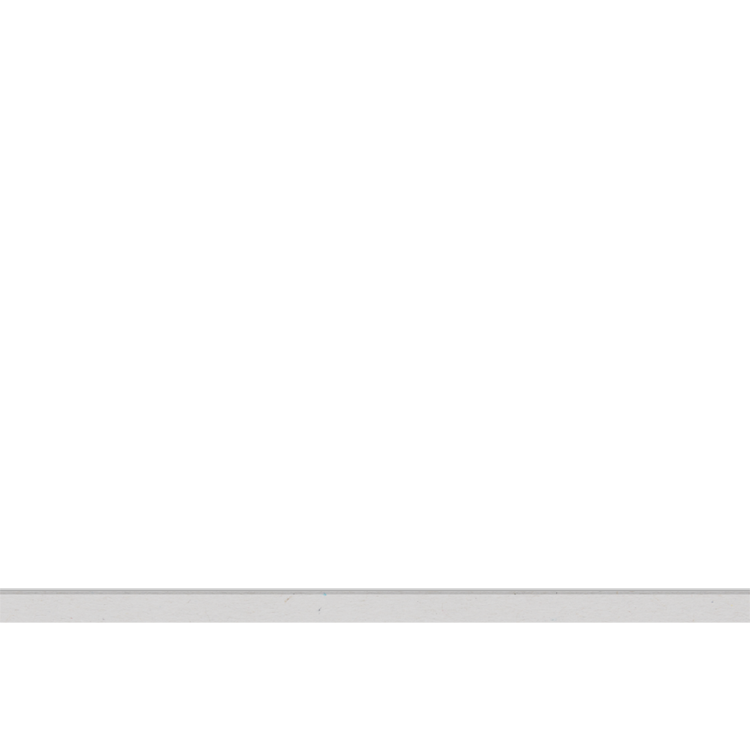
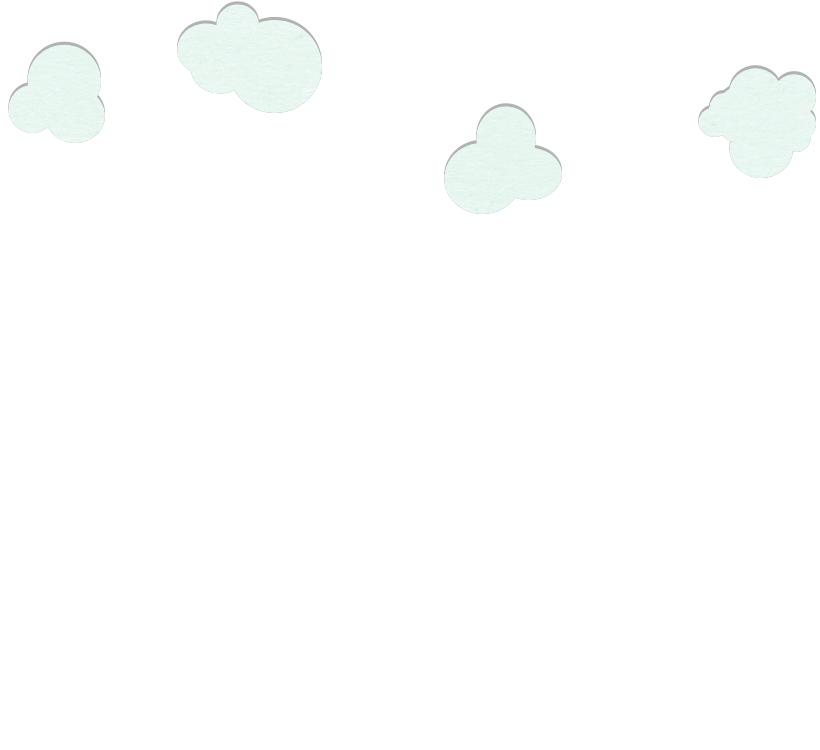
Added the updated graphics fo for city view and set up the scene for parallax as well as power plants being added in and people (optional).

diff --git a/www/templates/pages/cityView.html b/www/templates/pages/cityView.html
@@ -1,19 +1,36 @@
 <ion-view city-view-script="">
     <ion-content>
 	        <ul id="scene">
-		        <li class="layer" data-depth="0.00"><img src="img/City_Parallax/layer01.png" class = "WEParallax"></li>
-		        <li class="layer" data-depth="0.10"><img src="img/City_Parallax/layer02.png" class = "WEParallax"></li>
-		        <li class="layer" data-depth="0.20"><img src="img/City_Parallax/layer03.png" class = "WEParallax"></li>
-		        <li class="layer" data-depth="0.30"><img src="img/City_Parallax/layer04.png" class = "WEParallax"></li>
-		        <li class="layer" data-depth="0.40"><img src="img/City_Parallax/layer05.png" class = "WEParallax"></li>
-		        <li class="layer" data-depth="0.50"><img src="img/City_Parallax/layer06.png" class = "WEParallax"></li>
-		        <li class="layer" data-depth="0.60"><img src="img/City_Parallax/layer07.png" class = "WEParallax"></li>
-		        <li class="layer" data-depth="0.70"><img src="img/City_Parallax/layer08.png" class = "WEParallax"></li>
-		        <li class="layer" data-depth="0.80"><img src="img/City_Parallax/layer09.png" class = "WEParallax"></li>
-		        <li class="layer" data-depth="0.85"><img src="img/City_Parallax/layer10.png" class = "WEParallax"></li>
-		        <li class="layer" data-depth="0.90"><img src="img/City_Parallax/layer11.png" class = "WEParallax"></li>
-		        <li class="layer" data-depth="0.95"><img src="img/City_Parallax/layer12.png" class = "WEParallax"></li>
-		        <li class="layer" data-depth="1.00"><img src="img/City_Parallax/layer13.png" class = "WEParallax"></li>
+	        	<!--Hydro plant layer-->
+	        	<!--li class="layer" data-depth="0.00"><img src="#" class = "WEParallax"></li-->
+		        <li class="layer" data-depth="0.05"><img src="img/City_Parallax/layer11.png" class = "WEParallax"></li>
+		        <li class="layer" data-depth="0.10"><img src="img/City_Parallax/layer10.png" class = "WEParallax"></li>
+		        <!--People/car layer-->
+		        <!--i class="layer" data-depth="0.15"><img src="#" class = "WEParallax"></li-->
+		        <li class="layer" data-depth="0.20"><img src="img/City_Parallax/layer09.png" class = "WEParallax"></li>
+		        <li class="layer" data-depth="0.25"><img src="img/City_Parallax/layer08.png" class = "WEParallax"></li>
+		        <!--Coal plant layer-->
+		        <!--li class="layer" data-depth="0.30"><img src="#" class = "WEParallax"></li-->
+		        <!--Car layer 01-->
+		        <!--li class="layer" data-depth="0.35"><img src="#" class = "WEParallax"></li-->
+		        <li class="layer" data-depth="0.40"><img src="img/City_Parallax/layer07.png" class = "WEParallax"></li>
+		        <li class="layer" data-depth="0.45"><img src="img/City_Parallax/layer06.png" class = "WEParallax"></li>
+		        <!--Oil plant layer-->
+		        <!--li class="layer" data-depth="0.50"><img src="#" class = "WEParallax"></li-->
+		        <li class="layer" data-depth="0.55"><img src="img/City_Parallax/layer05.png" class = "WEParallax"></li>
+		        <!--Car layer 02-->
+		        <!--li class="layer" data-depth="0.60"><img src="#" class = "WEParallax"></li-->
+		        <!--Nuclear plant layer-->
+		        <!--li class="layer" data-depth="0.65"><img src="#" class = "WEParallax"></li-->
+		        <li class="layer" data-depth="0.70"><img src="img/City_Parallax/layer04.png" class = "WEParallax"></li>
+		        <!--Solar plant layer-->
+		        <!--li class="layer" data-depth="0.75"><img src="#" class = "WEParallax"></li-->
+		        <li class="layer" data-depth="0.80"><img src="img/City_Parallax/layer03.png" class = "WEParallax"></li>
+		        <!--Wind plant layer-->
+		        <!--li class="layer" data-depth="0.85"><img src="#" class = "WEParallax"></li-->
+		        <li class="layer" data-depth="0.95"><img src="img/City_Parallax/layer02.png" class = "WEParallax"></li>
+		        <li class="layer" data-depth="1.00"><img src="img/City_Parallax/layer01.png" class = "WEParallax"></li>
+
 		    </ul>
     </ion-content>
 
